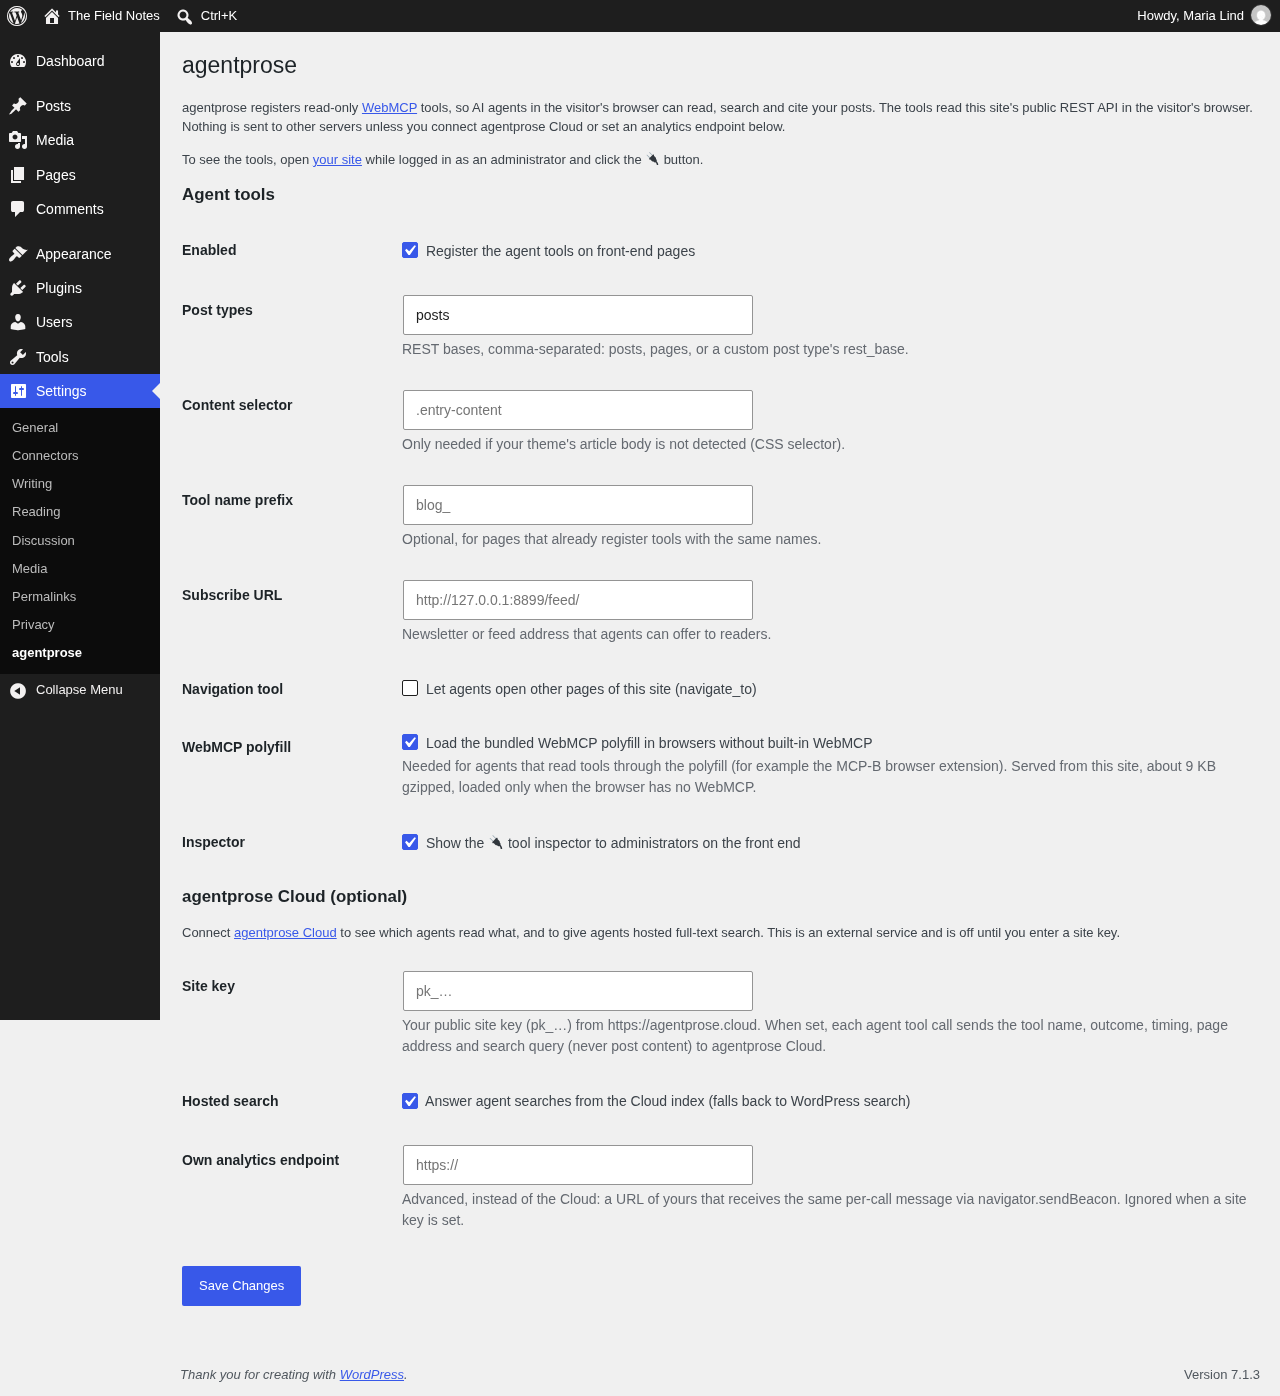
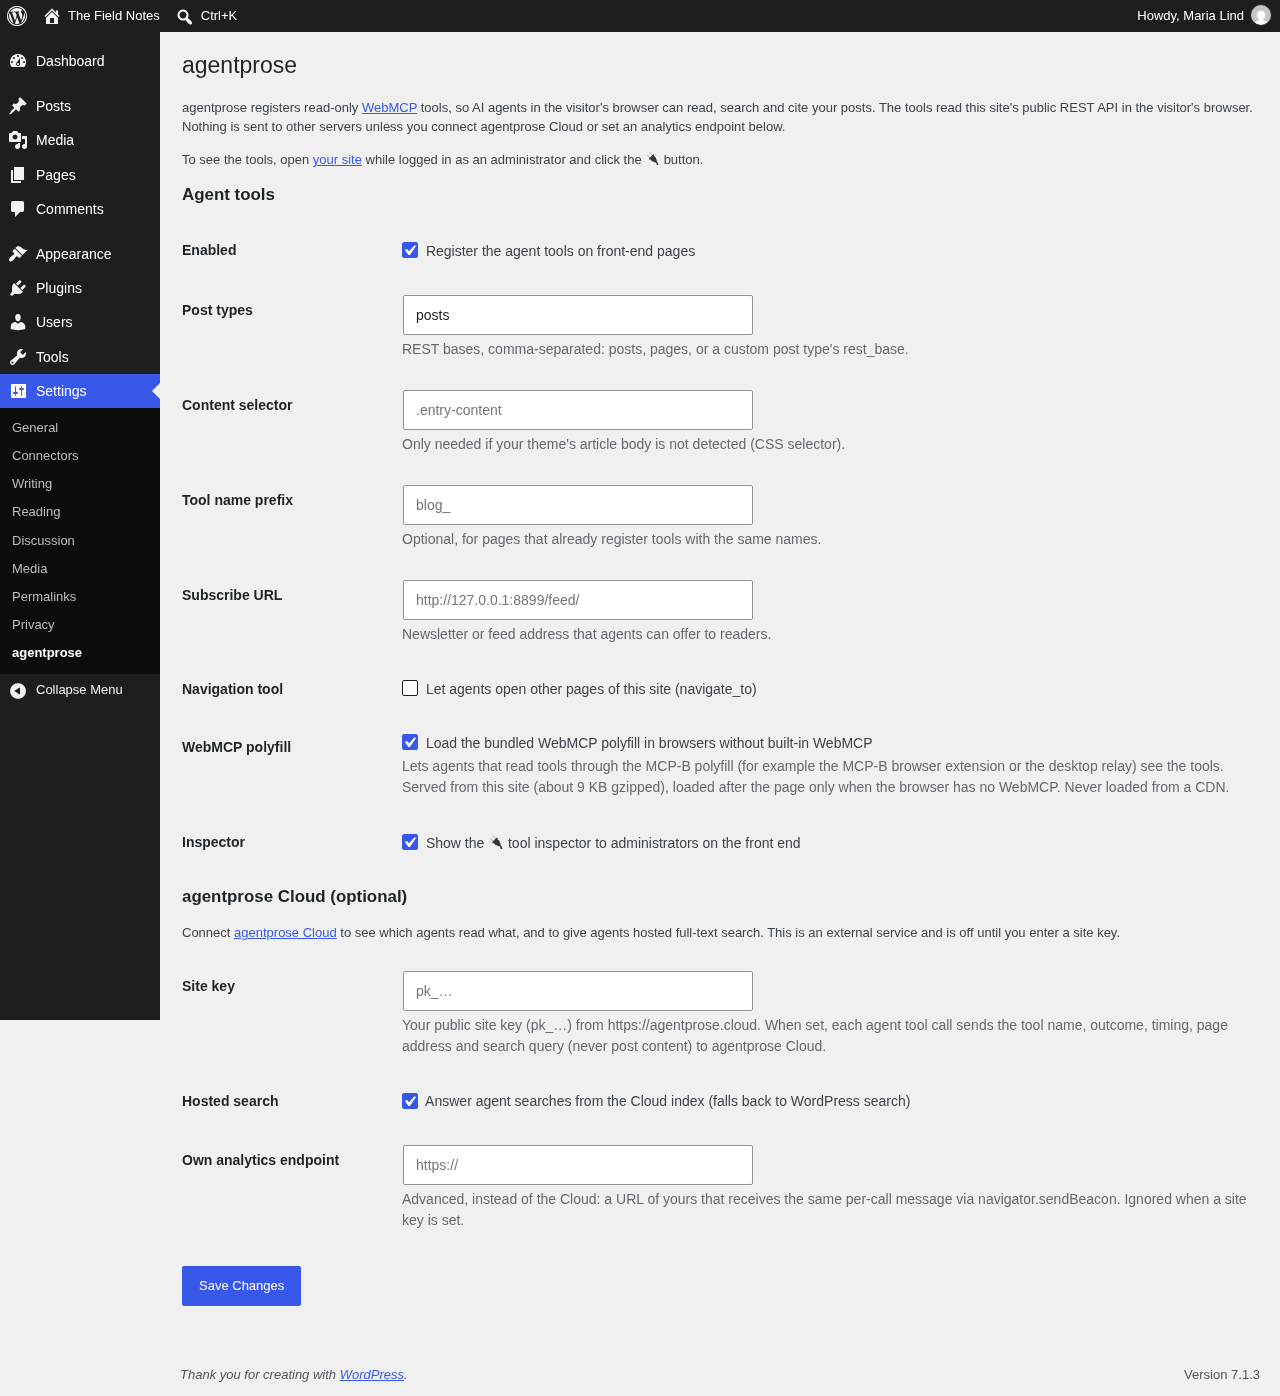
Rebase on #2 (polyfill by default): keep core+engine under the 16 KB budget; polyfill on by default in the plugin
- main after #2 has 4 bytes of headroom in the core+engine budget, so the library-wide fixes
  (entity decoding in stripHtml, WP theme author selectors, citation site-name fallback) are
  dropped from core/engine. Entity decoding moves into the WordPress adapter (wpText), which is
  its own bundle. Core and engine are byte-identical to main.
- Plugin: the bundled MCP-B polyfill is on by default (served locally, after load, only without
  native WebMCP), matching the library default; never a CDN (data-polyfill = local URL or false).
- readme/docs updated; screenshots retaken on the post-merge build.

Changed region(s): [[0.3125, 0.5236, 0.9375, 0.5852]]

diff --git a/src/adapters/wordpress.ts b/src/adapters/wordpress.ts
@@ -13,6 +13,17 @@ export interface WordPressOptions {
  * WordPress REST API (core endpoints, no plugin or auth needed for public content).
  * Docs: https://developer.wordpress.org/rest-api/reference/posts/
  */
+const NAMED: Record<string, string> = { hellip: '…', ndash: '–', mdash: '—', lsquo: '‘', rsquo: '’', ldquo: '“', rdquo: '”', laquo: '«', raquo: '»', nbsp: ' ' };
+
+/** WordPress renders titles, excerpts and term names with entities (&#8217;, [&hellip;]): plain text out. */
+export function wpText(h: string): string {
+  return stripHtml(h).replace(/&(#x[0-9a-f]{1,6}|#[0-9]{1,7}|[a-z]{2,8});/gi, (m, e: string) => {
+    if (e[0] !== '#') return NAMED[e.toLowerCase()] ?? m;
+    const n = /^#x/i.test(e) ? parseInt(e.slice(2), 16) : parseInt(e.slice(1), 10);
+    return n > 0 && n <= 0x10ffff && (n < 0xd800 || n > 0xdfff) ? String.fromCodePoint(n === 160 ? 32 : n) : m;
+  });
+}
+
 export function wordpress(o: WordPressOptions): ContentAdapter {
   const f = o.fetch || fetch.bind(globalThis);
   const root = o.api.replace(/\/?$/, '/');
@@ -33,7 +44,7 @@ export function wordpress(o: WordPressOptions): ContentAdapter {
   const termCache: Record<string, Promise<Map<number, Term>>> = {};
   const terms = (tax: 'tags' | 'categories' | 'users') =>
     (termCache[tax] ||= get(url(tax, { per_page: 100, _fields: 'id,name,slug,link,count', ...(tax === 'users' ? {} : { orderby: 'count', order: 'desc' }) }))
-      .then(({ json }) => new Map<number, Term>((json as any[]).map((t) => [t.id, { name: clean(t.name), slug: t.slug, url: t.link, count: t.count }])))
+      .then(({ json }) => new Map<number, Term>((json as any[]).map((t) => [t.id, { name: wpText(t.name), slug: t.slug, url: t.link, count: t.count }])))
       .catch(() => new Map()));
   const termId = async (tax: 'tags' | 'categories' | 'users', name?: string) => {
     if (!name) return undefined;
@@ -50,8 +61,8 @@ export function wordpress(o: WordPressOptions): ContentAdapter {
       url: p.link,
       id: String(p.id),
       slug: p.slug || slugOf(p.link),
-      title: stripHtml(p.title?.rendered || ''),
-      summary: stripHtml(p.excerpt?.rendered || '').replace(/\s*(\[…\]|\[\.\.\.\]|…|Continue reading.*)$/, '') || undefined,
+      title: wpText(p.title?.rendered || ''),
+      summary: wpText(p.excerpt?.rendered || '').replace(/\s*(\[…\]|\[\.\.\.\]|…|Continue reading.*)$/, '') || undefined,
       published: iso(p.date_gmt ? p.date_gmt + 'Z' : p.date),
       updated: iso(p.modified_gmt ? p.modified_gmt + 'Z' : p.modified),
       authors: emb.author ? emb.author.map((a: any) => clean(a.name)).filter(Boolean) : users.get(p.author) ? [users.get(p.author)!.name] : undefined,
@@ -115,7 +126,7 @@ export function wordpress(o: WordPressOptions): ContentAdapter {
       try {
         const r = await f(root.includes('rest_route=') ? root : root + '?_fields=name,description,url', { headers: { Accept: 'application/json' } });
         const j = await r.json();
-        return { name: stripHtml(j.name || ''), description: stripHtml(j.description || ''), url: j.url };
+        return { name: wpText(j.name || ''), description: wpText(j.description || ''), url: j.url };
       } catch {
         return {};
       }

diff --git a/src/core/util.ts b/src/core/util.ts
@@ -53,19 +53,8 @@ export function readingMinutes(text: string): number {
   return Math.max(1, Math.round(words(text) / 230));
 }
 
-const NAMED: Record<string, string> = { nbsp: ' ', amp: '&', lt: '<', gt: '>', quot: '"', apos: "'", hellip: '…', ndash: '–', mdash: '—', lsquo: '‘', rsquo: '’', ldquo: '“', rdquo: '”', laquo: '«', raquo: '»', copy: '©', reg: '®', trade: '™', times: '×', middot: '·', bull: '•' };
-
-/** Decodes numeric entities and the named ones CMSs emit (WordPress renders titles with &#8217; and excerpts with [&hellip;]). */
-export function decodeEntities(s: string): string {
-  return s.replace(/&(#x[0-9a-f]{1,6}|#[0-9]{1,7}|[a-z]{2,8});/gi, (m, e: string) => {
-    if (e[0] !== '#') return NAMED[e.toLowerCase()] ?? m;
-    const n = e[1] === 'x' || e[1] === 'X' ? parseInt(e.slice(2), 16) : parseInt(e.slice(1), 10);
-    return n > 0 && n <= 0x10ffff && !(n >= 0xd800 && n <= 0xdfff) ? String.fromCodePoint(n === 160 ? 32 : n) : m;
-  });
-}
-
 export function stripHtml(h: string): string {
-  return clean(decodeEntities(h.replace(/<(script|style)[\s\S]*?<\/\1>/gi, ' ').replace(/<[^>]+>/g, ' ')));
+  return clean(h.replace(/<(script|style)[\s\S]*?<\/\1>/gi, ' ').replace(/<[^>]+>/g, ' ').replace(/&nbsp;/g, ' ').replace(/&amp;/g, '&').replace(/&lt;/g, '<').replace(/&gt;/g, '>').replace(/&quot;/g, '"').replace(/&#0?39;|&apos;/g, "'"));
 }
 
 export function parseHtml(h: string): Document {

diff --git a/test/unit/extract.test.ts b/test/unit/extract.test.ts
@@ -17,12 +17,6 @@ const PAGE = `<!doctype html><html lang="nb"><head>
 </body></html>`;
 
 describe('extractPage', () => {
-  it('finds the author in WordPress block and classic theme markup', () => {
-    const block = extractPage(html('<html><body><main><article><h1>T</h1><div class="wp-block-post-author-name"><a href="/author/maria/">Maria Lind</a></div><div class="entry-content"><p>Body</p></div></article></main></body></html>'), 'https://wp.ex/t/');
-    expect(block.authors).toEqual(['Maria Lind']);
-    const classic = extractPage(html('<html><body><article><h1>T</h1><span class="byline">by <span class="author vcard"><a class="url fn n" href="/author/ola/">Ola</a></span></span><div class="entry-content"><p>Body</p></div></article></body></html>'), 'https://wp.ex/t/');
-    expect(classic.authors).toEqual(['Ola']);
-  });
   const p = extractPage(html(PAGE), 'https://ex.com/posts/hello/?utm=1');
   it('reads JSON-LD through @graph and tolerates broken blocks', () => {
     expect(jsonLd(html(PAGE)).length).toBe(3);

diff --git a/src/core/site-tools.ts b/src/core/site-tools.ts
@@ -31,7 +31,7 @@ export function siteExec(ctx: SiteCtx) {
     get_citation: async (i: any = {}) => {
         const p = await resolve(i);
         if (!p) return notFound(i);
-        const siteName = extractSite(doc, here()).name || (src.site ? ((await src.site().catch(() => ({}))) as { name?: string }).name : undefined) || undefined;
+        const siteName = extractSite(doc, here()).name;
         const year = p.published ? new Date(p.published).getUTCFullYear() : 'n.d.';
         const who = p.authors?.length ? p.authors.join(', ') : siteName || new URL(p.url).host;
         const out: Record<string, unknown> = { url: p.url, title: p.title, authors: p.authors, published: p.published, site: siteName, citation: `${who} (${year}). ${p.title}. ${siteName ? siteName + '. ' : ''}${p.url}` };

diff --git a/src/core/extract.ts b/src/core/extract.ts
@@ -170,7 +170,7 @@ export function extractPage(doc: Document, url: string, opts: { selector?: strin
     ...ldNames(art.author),
     ...metas(doc, 'article:author').filter((a) => !/^https?:/.test(a)),
     meta(doc, 'author'),
-    clean(doc.querySelector('[rel="author"],.p-author,.author-name,[itemprop="author"] [itemprop="name"],.wp-block-post-author-name,.author.vcard .fn')?.textContent),
+    clean(doc.querySelector('[rel="author"],.p-author,.author-name,[itemprop="author"] [itemprop="name"]')?.textContent),
   ]).slice(0, 5);
   // Listing pages (many <article> cards) are not articles even when they are long and dated.
   const cards = doc.querySelectorAll('article').length;

diff --git a/wordpress-plugin/agentprose/includes/admin.php b/wordpress-plugin/agentprose/includes/admin.php
@@ -159,7 +159,7 @@ function agentprose_settings_page() {
 				agentprose_text_row( 'prefix', __( 'Tool name prefix', 'agentprose' ), esc_html__( 'Optional, for pages that already register tools with the same names.', 'agentprose' ), 'blog_' );
 				agentprose_text_row( 'subscribe', __( 'Subscribe URL', 'agentprose' ), esc_html__( 'Newsletter or feed address that agents can offer to readers.', 'agentprose' ), get_feed_link(), 'url' );
 				agentprose_checkbox_row( 'navigate', __( 'Navigation tool', 'agentprose' ), __( 'Let agents open other pages of this site (navigate_to)', 'agentprose' ) );
-				agentprose_checkbox_row( 'polyfill', __( 'WebMCP polyfill', 'agentprose' ), __( 'Load the bundled WebMCP polyfill in browsers without built-in WebMCP', 'agentprose' ), esc_html__( 'Needed for agents that read tools through the polyfill (for example the MCP-B browser extension). Served from this site, about 9 KB gzipped, loaded only when the browser has no WebMCP.', 'agentprose' ) );
+				agentprose_checkbox_row( 'polyfill', __( 'WebMCP polyfill', 'agentprose' ), __( 'Load the bundled WebMCP polyfill in browsers without built-in WebMCP', 'agentprose' ), esc_html__( 'Lets agents that read tools through the MCP-B polyfill (for example the MCP-B browser extension or the desktop relay) see the tools. Served from this site (about 9 KB gzipped), loaded after the page only when the browser has no WebMCP. Never loaded from a CDN.', 'agentprose' ) );
 				agentprose_checkbox_row( 'inspector', __( 'Inspector', 'agentprose' ), __( 'Show the 🔌 tool inspector to administrators on the front end', 'agentprose' ) );
 				?>
 			</table>

diff --git a/wordpress-plugin/agentprose/agentprose.php b/wordpress-plugin/agentprose/agentprose.php
@@ -43,7 +43,7 @@ function agentprose_defaults() {
 		'subscribe'    => '',
 		'navigate'     => 0,
 		'inspector'    => 1,
-		'polyfill'     => 0,
+		'polyfill'     => 1,
 		'cloud_key'    => '',
 		'cloud_search' => 1,
 		'analytics'    => '',

diff --git a/docs/wordpress.md b/docs/wordpress.md
@@ -2,7 +2,7 @@
 
 agentprose works on WordPress in two ways:
 
-- **The plugin** (`wordpress-plugin/agentprose`, on its way to wordpress.org): install, activate, done. It serves the script from your own site, adds a settings page (post types, content selector, tool prefix, subscribe link, the optional bundled WebMCP polyfill, and an optional agentprose Cloud site key), and shows administrators a 🔌 tool inspector on the front end.
+- **The plugin** (`wordpress-plugin/agentprose`, on its way to wordpress.org): install, activate, done. It serves the script from your own site, adds a settings page (post types, content selector, tool prefix, subscribe link, the bundled MCP-B WebMCP polyfill, and an optional agentprose Cloud site key), and shows administrators a 🔌 tool inspector on the front end.
 - **The script tag**: any WordPress site works with the one-line snippet too. agentprose sees `<link rel="https://api.w.org/">` and switches to the REST API on its own (see [adapters](adapters.md#wordpress)).
 
 Both register the same read-only tools, backed by the core REST API (`/wp/v2/posts`, `search`, `tags`, `categories`, `users`). Nothing is added on the server: no endpoints, no tables, no cron. Requests start only when an agent calls a tool.
@@ -17,7 +17,7 @@ Both register the same read-only tools, backed by the core REST API (`/wp/v2/pos
 | Tool name prefix | `data-prefix` | none |
 | Subscribe URL | `data-subscribe` | none |
 | Navigation tool | `data-navigate` | off |
-| WebMCP polyfill (bundled, local file) | `data-polyfill="<plugin url>/js/vendor/webmcp-polyfill.iife.js"` or `"false"` | off |
+| WebMCP polyfill (bundled, local file) | `data-polyfill="<plugin url>/js/vendor/webmcp-polyfill.iife.js"` or `"false"` | on |
 | Cloud site key | `data-analytics=https://agentprose.cloud/v1/collect`, `data-analytics-key`, `data-search-endpoint` | none |
 | Hosted search (with a key) | `data-search-endpoint` | on |
 | Own analytics endpoint | `data-analytics` | none |
@@ -25,7 +25,7 @@ Both register the same read-only tools, backed by the core REST API (`/wp/v2/pos
 
 Filters: `agentprose_script_attributes` (array of attributes) and `agentprose_cloud_url` (for a self-hosted Cloud). The constant `AGENTPROSE_CLOUD_URL` does the same as the second.
 
-The plugin never loads code from a CDN. The polyfill URL baked into the library (`POLYFILL_URL`, unpkg) is not used by the plugin: it always sets `data-polyfill` to its own copy or to `false`.
+The plugin never loads code from a CDN. The library's default polyfill URL (`POLYFILL_URL`, jsDelivr) is not used by the plugin: it always sets `data-polyfill` to its own copy of the same pinned build, or to `false`.
 
 ## agentprose vs WebMCP Bridge
 
@@ -35,7 +35,7 @@ The plugin never loads code from a CDN. The polyfill URL baked into the library 
 |---|---|---|
 | Focus | Reading and citing content, read-only | Actions and server access: WooCommerce, forms, remote MCP |
 | How tools run | In the visitor's browser, against the core REST API | PHP tool registry with its own REST routes, plus a JS bridge |
-| WebMCP API | `modelContext.registerTool` (current draft), optional bundled polyfill | `navigator.modelContext.provideContext()`, legacy `window.ai.tools`, fallback `window.webmcpBridgeTools` |
+| WebMCP API | `modelContext.registerTool` (current draft), MCP-B polyfill bundled | `navigator.modelContext.provideContext()`, legacy `window.ai.tools`, fallback `window.webmcpBridgeTools` |
 | Content tools | `get_current_article`, `search_posts`, `list_posts`, `get_post`, `get_section`, `get_table_of_contents`, `get_citation`, `get_related_posts`, `list_taxonomies`, `get_site_info`, `get_subscribe_link`, `get_comments_link`, optional `navigate_to` | `search_posts`, `get_post`, `get_menu`, `get_categories`, `get_site_info`; `retrieve`, `get_markdown_content`, `get_llms_txt` with the companion plugin Mescio for Agents |
 | Post format | Markdown with outline; sections; paged, never truncated | `get_post` returns plain text (tags stripped); Markdown needs Mescio for Agents |
 | Citations | `get_citation`: checks a quote against the post, returns a `#:~:text=` highlight link and a formatted citation | None |
